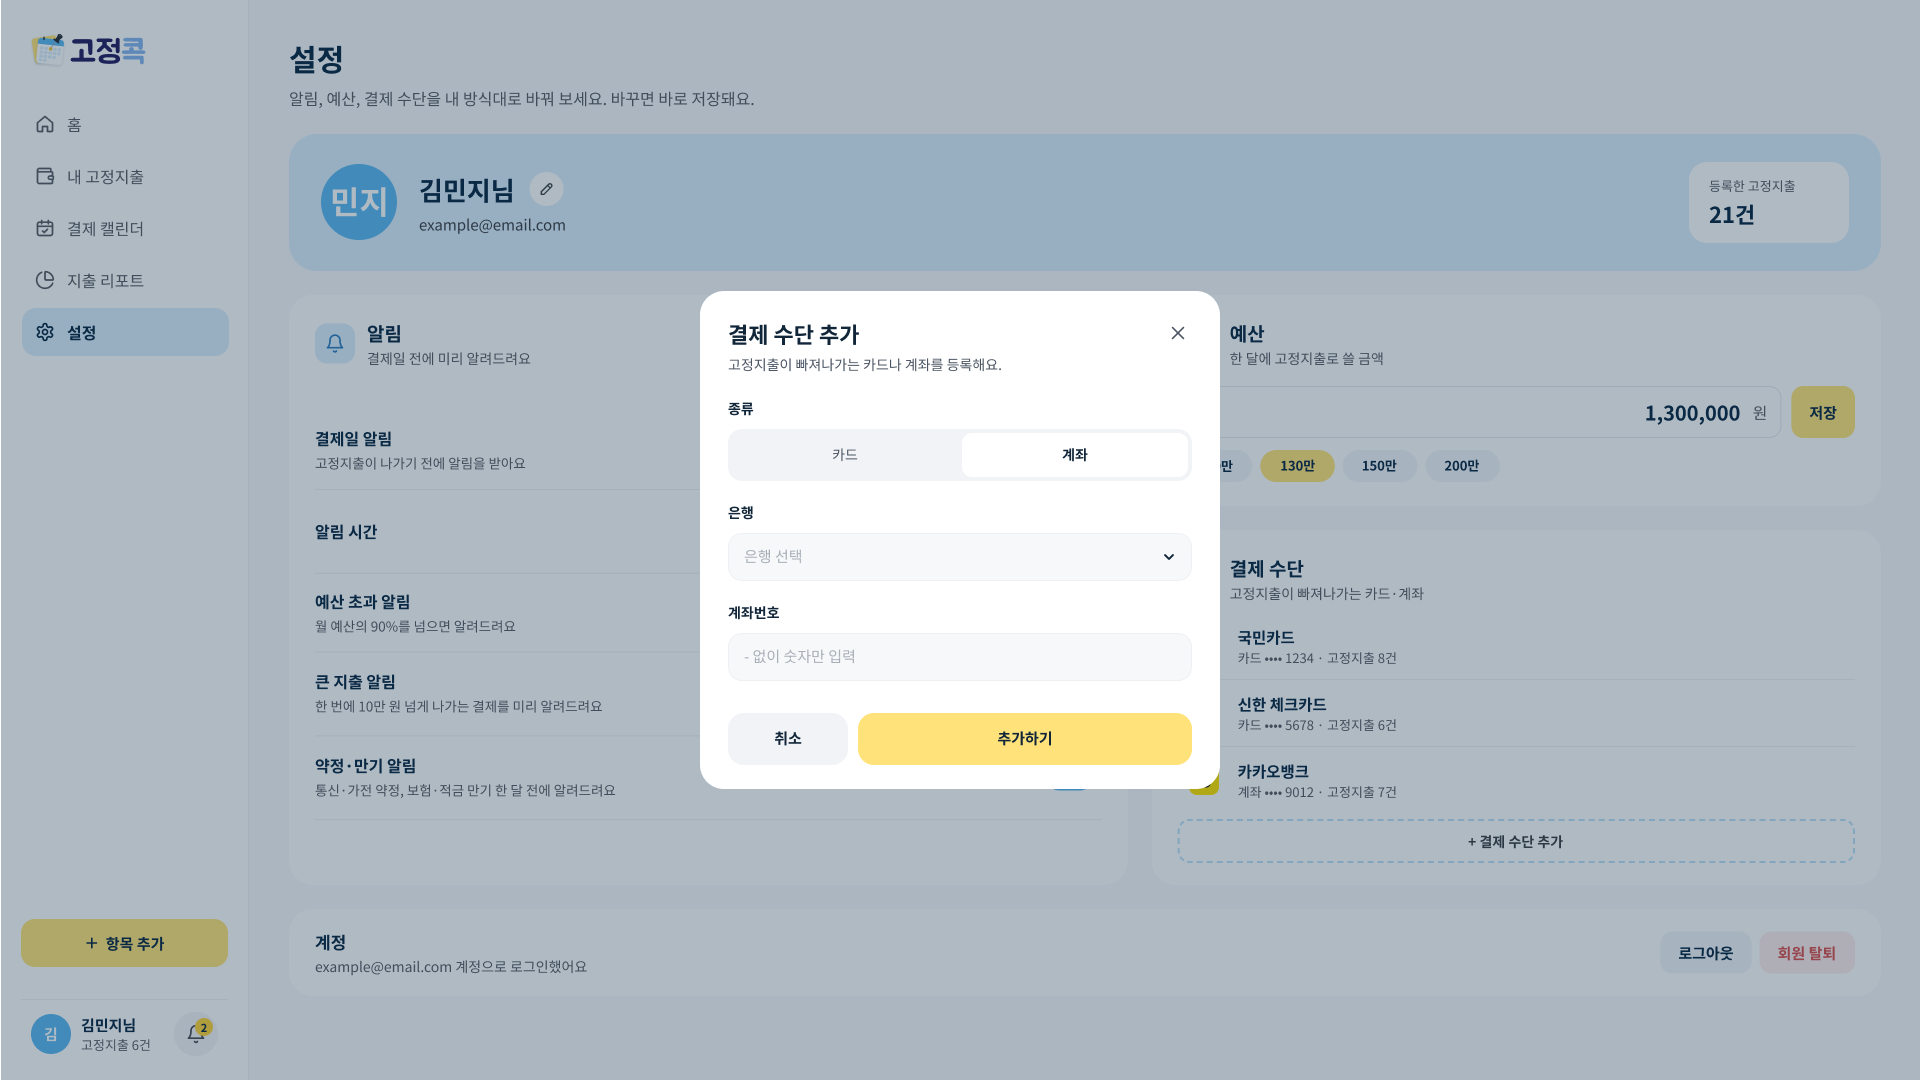
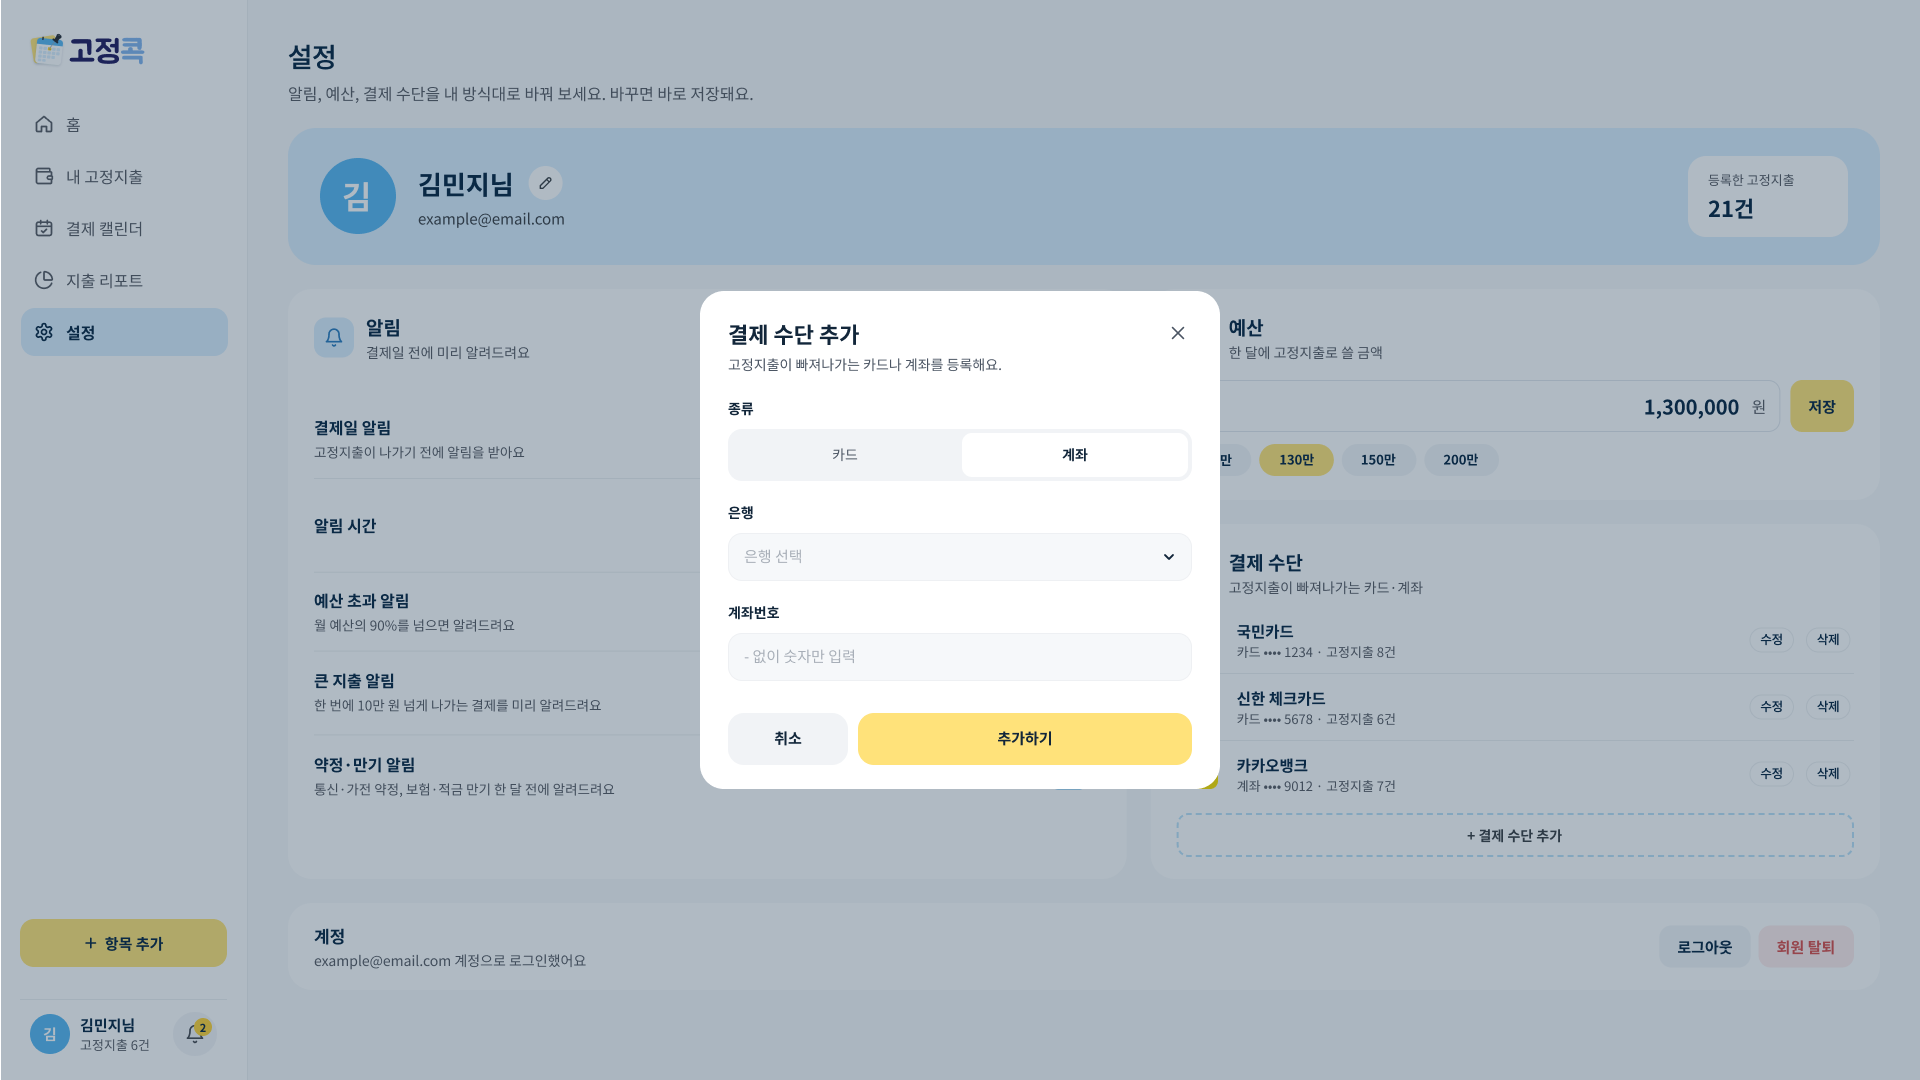
이미지 변경

diff --git a/README.md b/README.md
@@ -183,8 +183,8 @@
 - 김소연 ([@114soyeon](https://github.com/114soyeon)) : 인증·로그인, Supabase DB·RLS 설계와 연동, Vercel 배포
 
 **UI/UX 디자인**
-- **권지원** ([@alice207116116-debug](https://github.com/alice207116116-debug)) : 홈, 로그인·회원가입, 사이드바, 항목 추가
-- **변예담** ([@yeadm](https://github.com/yeadm)) : 내 고정지출, 고정지출 상세
+- **권지원** ([@alice207116116-debug](https://github.com/alice207116116-debug)) : 로그인·회원가입, 아이디·비밀번호 찾기, 홈, 사이드바, 항목 추가 모달
+- **변예담** ([@yeadm](https://github.com/yeadm)) : 내 고정지출, 고정지출 상세, 결제 수단 변경 모달
 - **나혜진** ([@nahj272](https://github.com/nahj272)) : 결제 캘린더, 지출 리포트, 설정, 카테고리 컬러 규칙
 
 <br>
